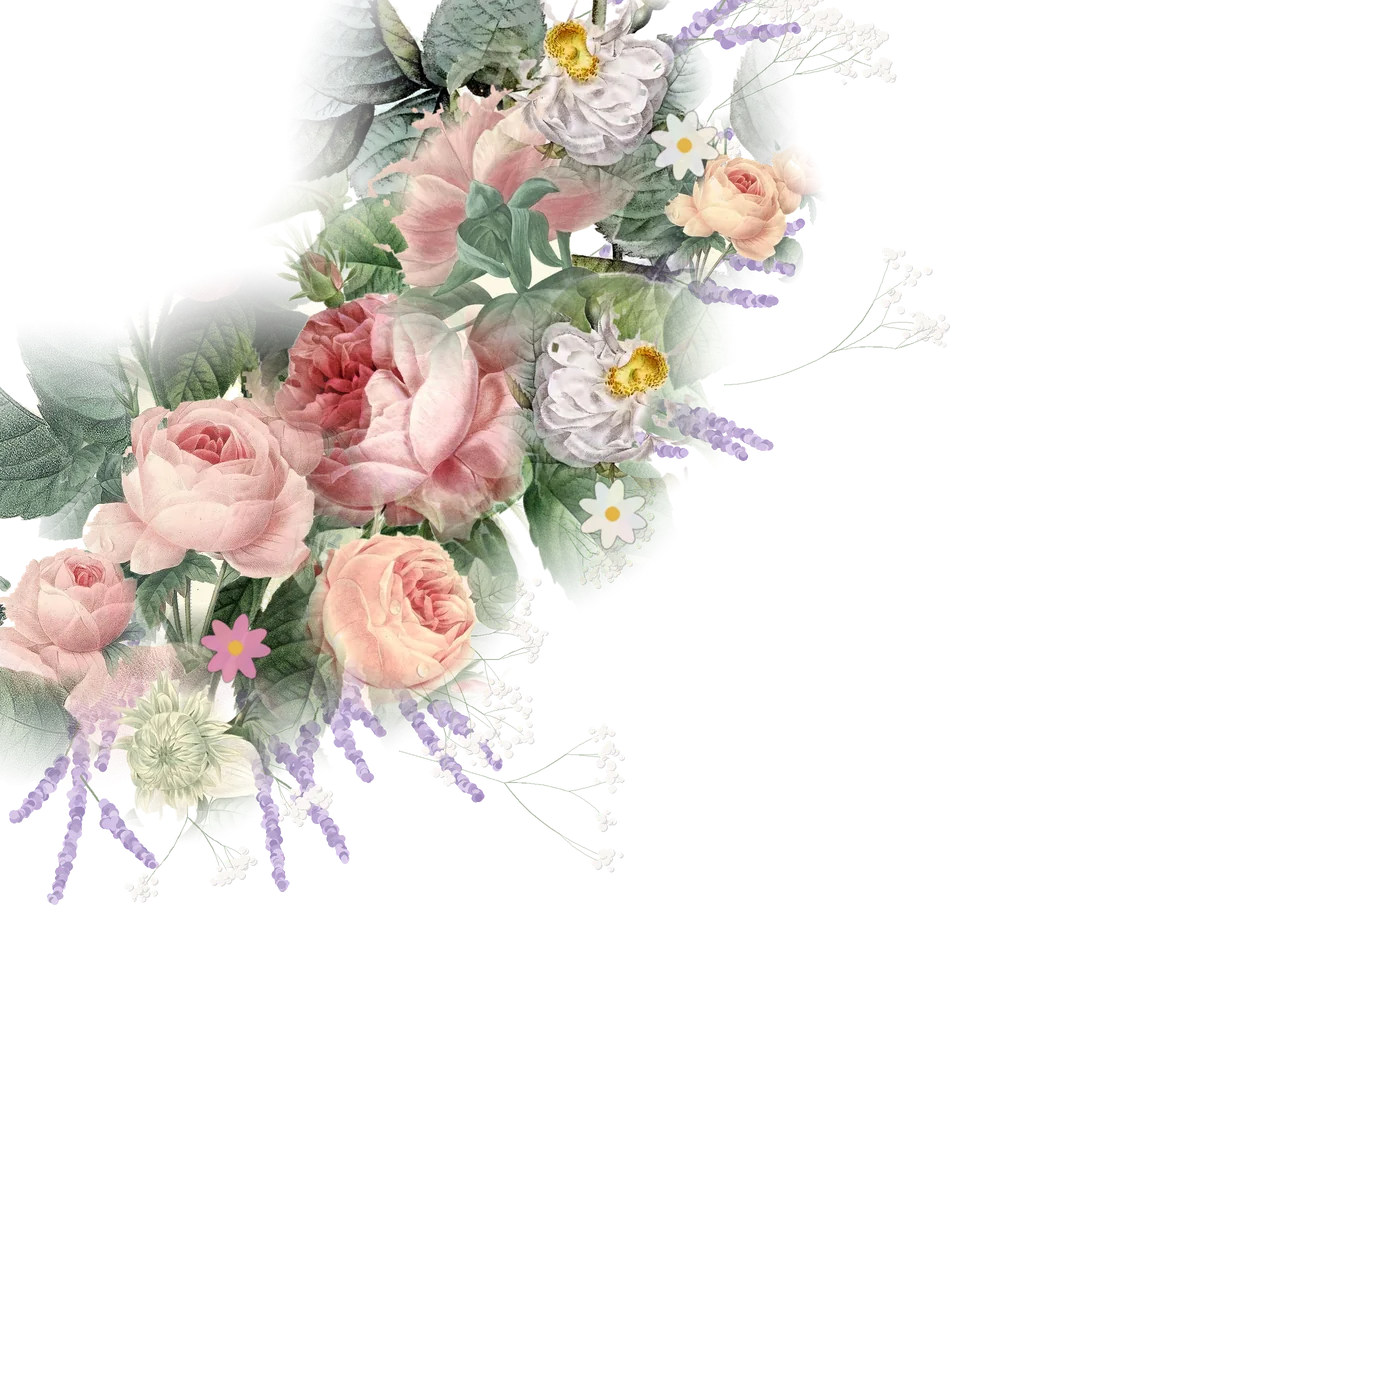
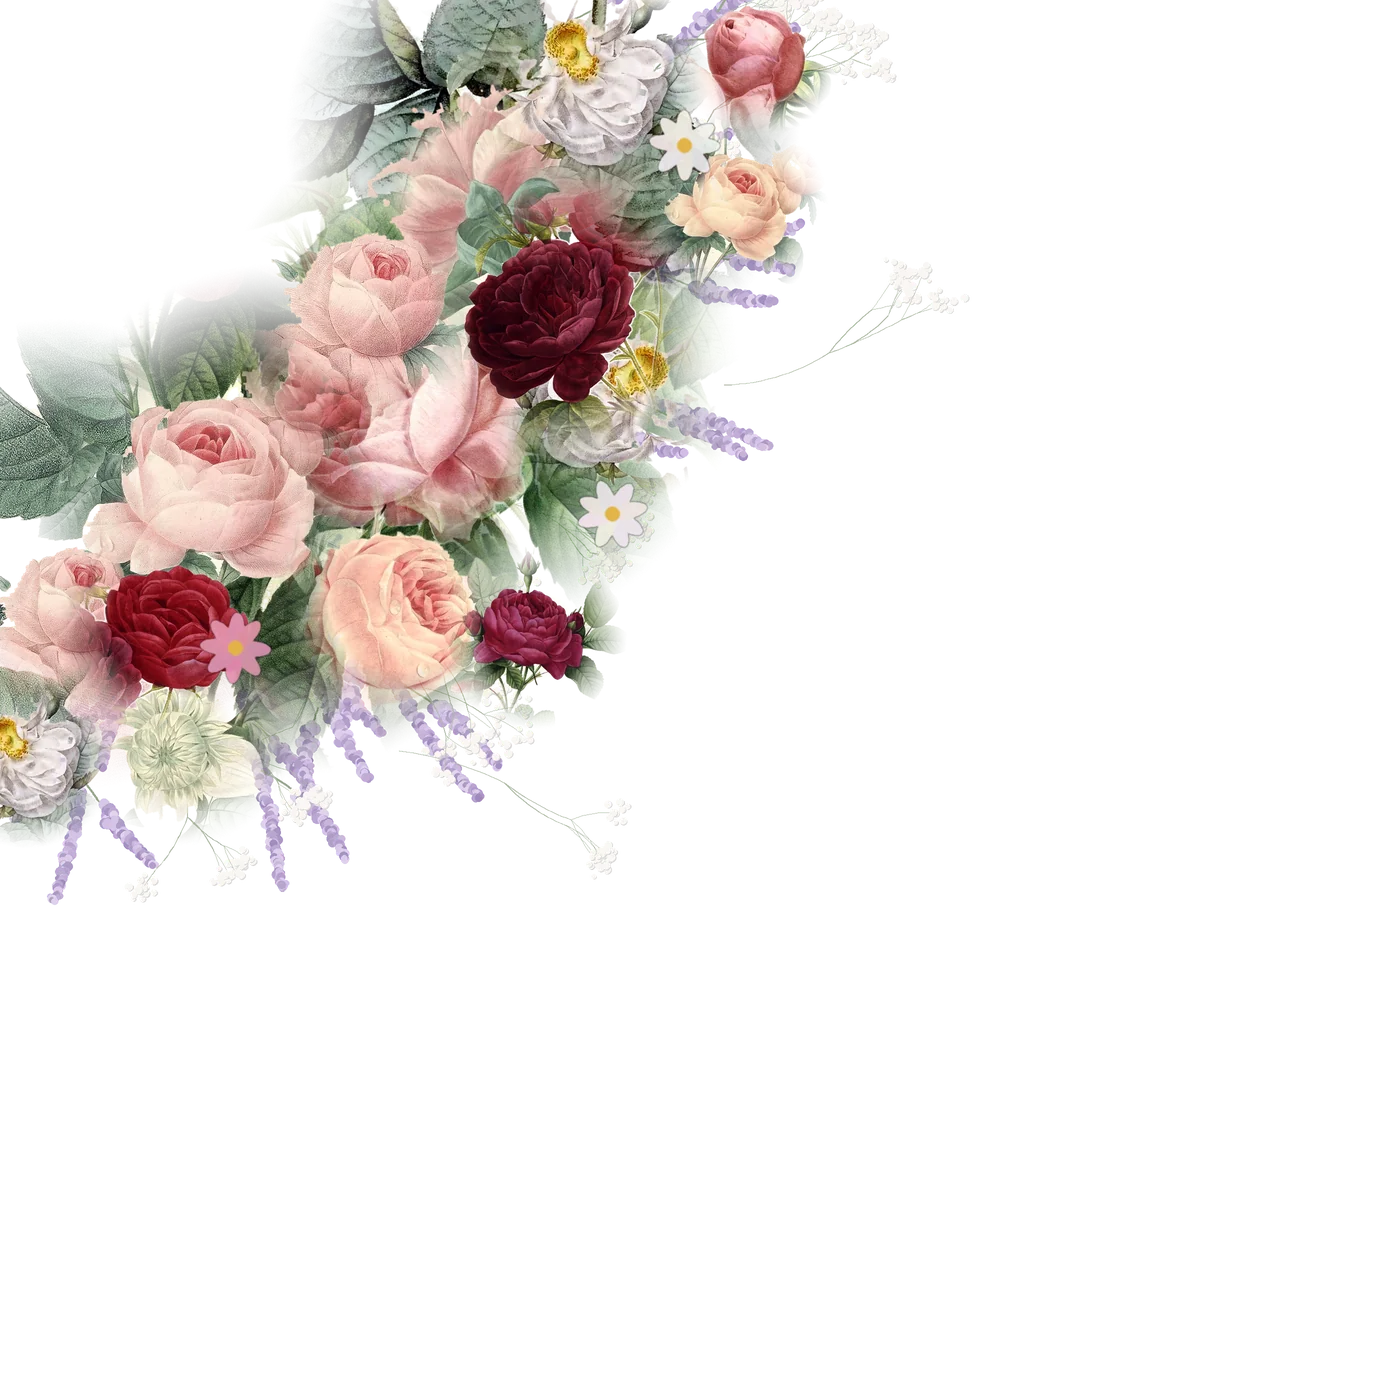
More florals with wine-red roses; arrangements fade around the chapel photo; RSVP by Dec 7
- Wine-red roses (toned to the text color) and extra blooms in every cluster
- Floor arrangements trail down and fade out instead of ending in a straight
  line; the hero clips sideways only, so they spill past it beside the photo
- More falling petals (46 desktop / 28 phone)
- RSVP deadline December 7

diff --git a/index.html b/index.html
@@ -13,7 +13,7 @@
   <link href="https://fonts.googleapis.com/css2?family=Cormorant+Garamond:ital,wght@0,400..700;1,400..700&family=Great+Vibes&display=swap" rel="stylesheet">
   <link rel="preload" as="image" href="images/corner.webp">
   <!-- Bump ?v= on each change so browsers fetch the new file instead of a cached one. -->
-  <link rel="stylesheet" href="styles.css?v=9">
+  <link rel="stylesheet" href="styles.css?v=10">
 </head>
 <body>
   <a class="skip" href="#ceremony">Skip to details</a>
@@ -105,8 +105,8 @@
     <img class="corner corner-left" src="images/corner.webp" width="1400" height="1400" alt="">
     <img class="corner corner-right" src="images/corner.webp" width="1400" height="1400" alt="">
     <img class="center-flowers" src="images/center.webp" width="900" height="640" alt="">
-    <img class="mound mound-left" src="images/mound.webp" width="1500" height="1150" alt="">
-    <img class="mound mound-right" src="images/mound.webp" width="1500" height="1150" alt="">
+    <img class="mound mound-left" src="images/mound.webp" width="1500" height="1700" alt="">
+    <img class="mound mound-right" src="images/mound.webp" width="1500" height="1700" alt="">
 
     <div class="invite">
       <p class="monogram" aria-hidden="true">K R</p>
@@ -126,7 +126,7 @@
       <p class="caps">Riverside, California</p>
       <p class="caps">One o'clock in the afternoon</p>
 
-      <a class="button" href="#rsvp">RSVP by December 14</a>
+      <a class="button" href="#rsvp">RSVP by December 7</a>
     </div>
   </header>
 
@@ -207,7 +207,7 @@
       <h2 class="title">RSVP</h2>
       <!-- Replies go to Formspree (dashboard: formspree.io/forms/mkjrqoba). -->
       <form class="card" id="rsvp-form" action="https://formspree.io/f/mkjrqoba" method="POST">
-        <p class="card-head">The favour of a reply is requested<br>by the fourteenth of December</p>
+        <p class="card-head">The favour of a reply is requested<br>by the seventh of December</p>
 
         <label class="field">
           <span>Your name</span>
@@ -251,13 +251,13 @@
   </main>
 
   <footer class="footer">
-    <img class="mound mound-left" src="images/mound.webp" width="1500" height="1150" alt="" loading="lazy">
-    <img class="mound mound-right" src="images/mound.webp" width="1500" height="1150" alt="" loading="lazy">
+    <img class="mound mound-left" src="images/mound.webp" width="1500" height="1700" alt="" loading="lazy">
+    <img class="mound mound-right" src="images/mound.webp" width="1500" height="1700" alt="" loading="lazy">
     <p class="monogram">K R</p>
     <p class="caps">December 22, 2026</p>
   </footer>
 
-  <script src="petals.js?v=9"></script>
-  <script src="rsvp.js?v=9"></script>
+  <script src="petals.js?v=10"></script>
+  <script src="rsvp.js?v=10"></script>
 </body>
 </html>

diff --git a/styles.css b/styles.css
@@ -95,7 +95,10 @@ a:hover { text-decoration-color: var(--wine); }
     calc(var(--swag-h) + 1.75rem)
     clamp(2.75rem, 14vw, 15rem)
     2.5rem;   /* wide screens: floor arrangements sit beside the text */
-  overflow: hidden;
+  /* Clip sideways only, so the floor arrangements can spill down past the hero
+     and fade out around the chapel photo instead of ending in a straight line. */
+  overflow-x: clip;
+  overflow-y: visible;
   text-align: center;
 }
 
@@ -121,7 +124,8 @@ a:hover { text-decoration-color: var(--wine); }
   height: auto;
   translate: -50% 0;
 }
-.mound { z-index: 3; bottom: 0; width: var(--mound-w); height: auto; }
+/* The image fades out in its lower third; that part hangs below the hero. */
+.mound { z-index: 3; bottom: calc(var(--mound-w) * -0.36); width: var(--mound-w); height: auto; }
 .mound-left { left: -3%; }
 .mound-right { right: -3%; scale: -1 1; }
 
@@ -220,7 +224,7 @@ a:hover { text-decoration-color: var(--wine); }
 
 /* Phones: the floor arrangements sit below the text instead of beside it. */
 @media (max-width: 900px) {
-  .hero { --mound-w: clamp(200px, 52vw, 420px); padding-bottom: calc(var(--mound-w) * 0.66); }
+  .hero { --mound-w: clamp(200px, 52vw, 420px); padding-bottom: calc(var(--mound-w) * 0.7); }
   .date { gap: 0.75rem; }
 }
 
@@ -392,4 +396,4 @@ input:focus, textarea:focus { outline: none; border-bottom-color: var(--wine); b
   text-align: center;
 }
 .footer p { margin: 0; position: relative; z-index: 3; }
-.footer .mound { width: clamp(200px, 32vw, 460px); }
+.footer .mound { width: clamp(200px, 32vw, 460px); bottom: calc(clamp(200px, 32vw, 460px) * -0.3); }

diff --git a/petals.js b/petals.js
@@ -15,7 +15,7 @@
     canvas.width = w * dpr;
     canvas.height = h * dpr;
     ctx.setTransform(dpr, 0, 0, dpr, 0, 0);
-    const count = w < 640 ? 20 : 32;
+    const count = w < 640 ? 28 : 46;
     while (petals.length < count) petals.push(spawn(true));
     petals.length = count;
   };
